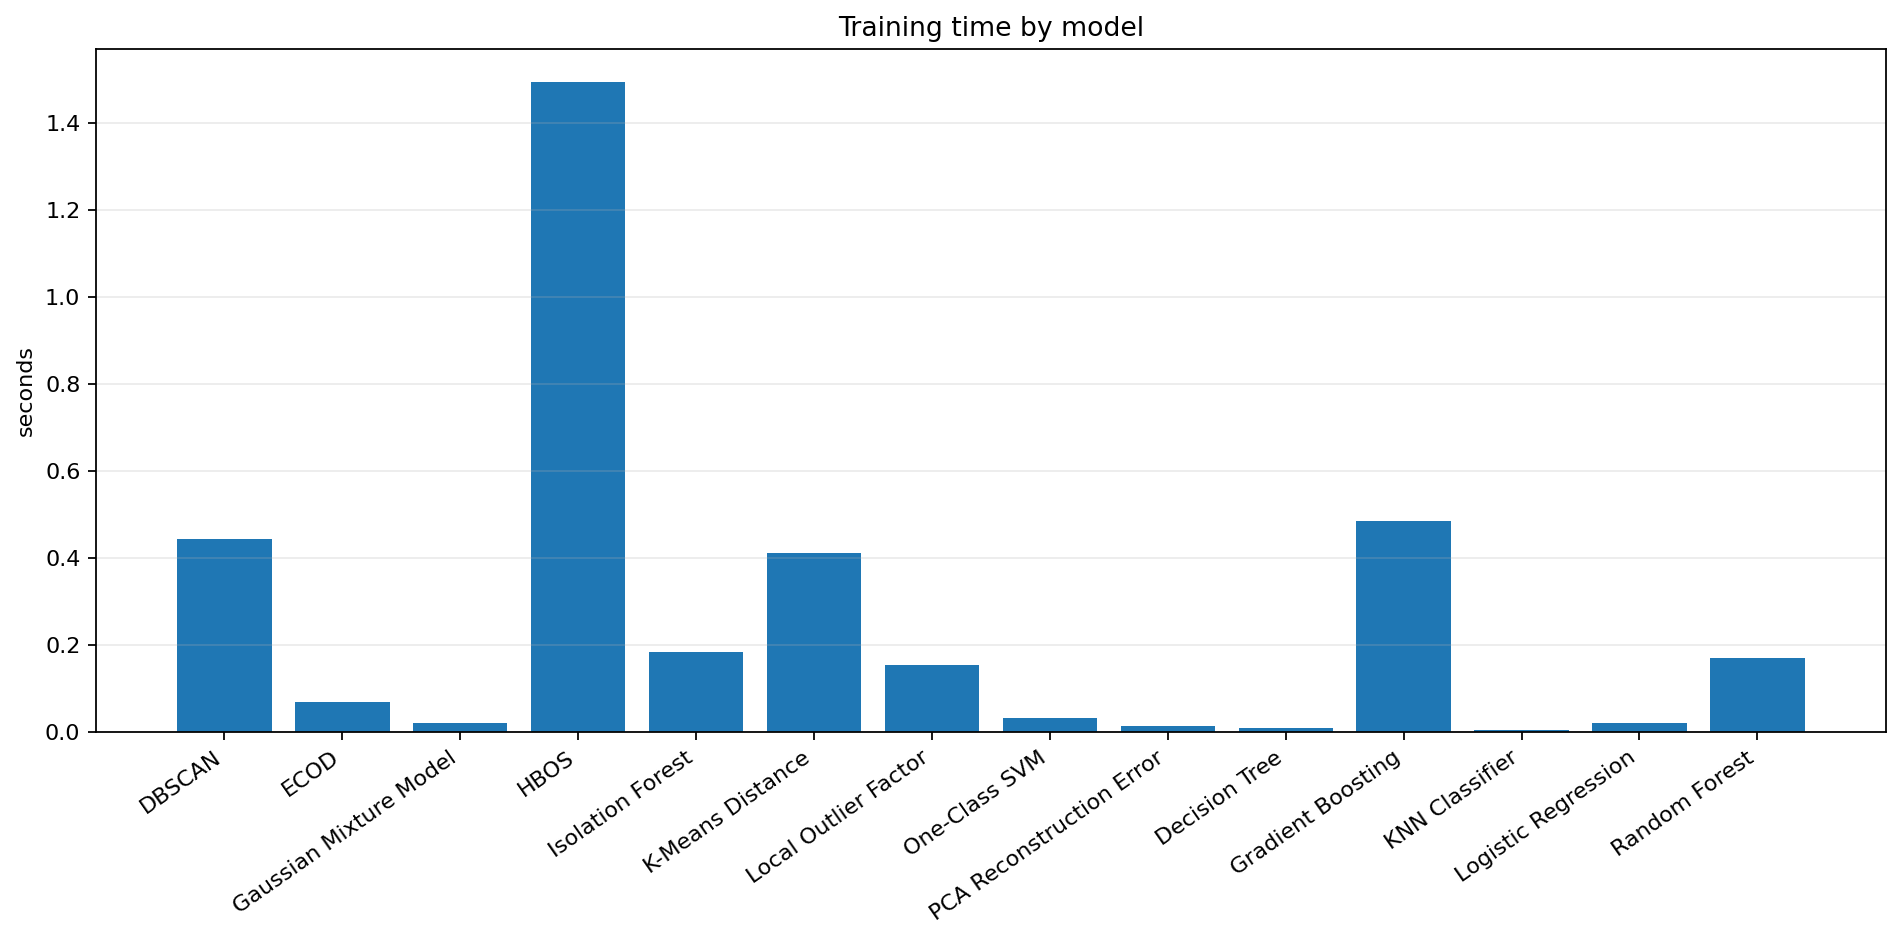
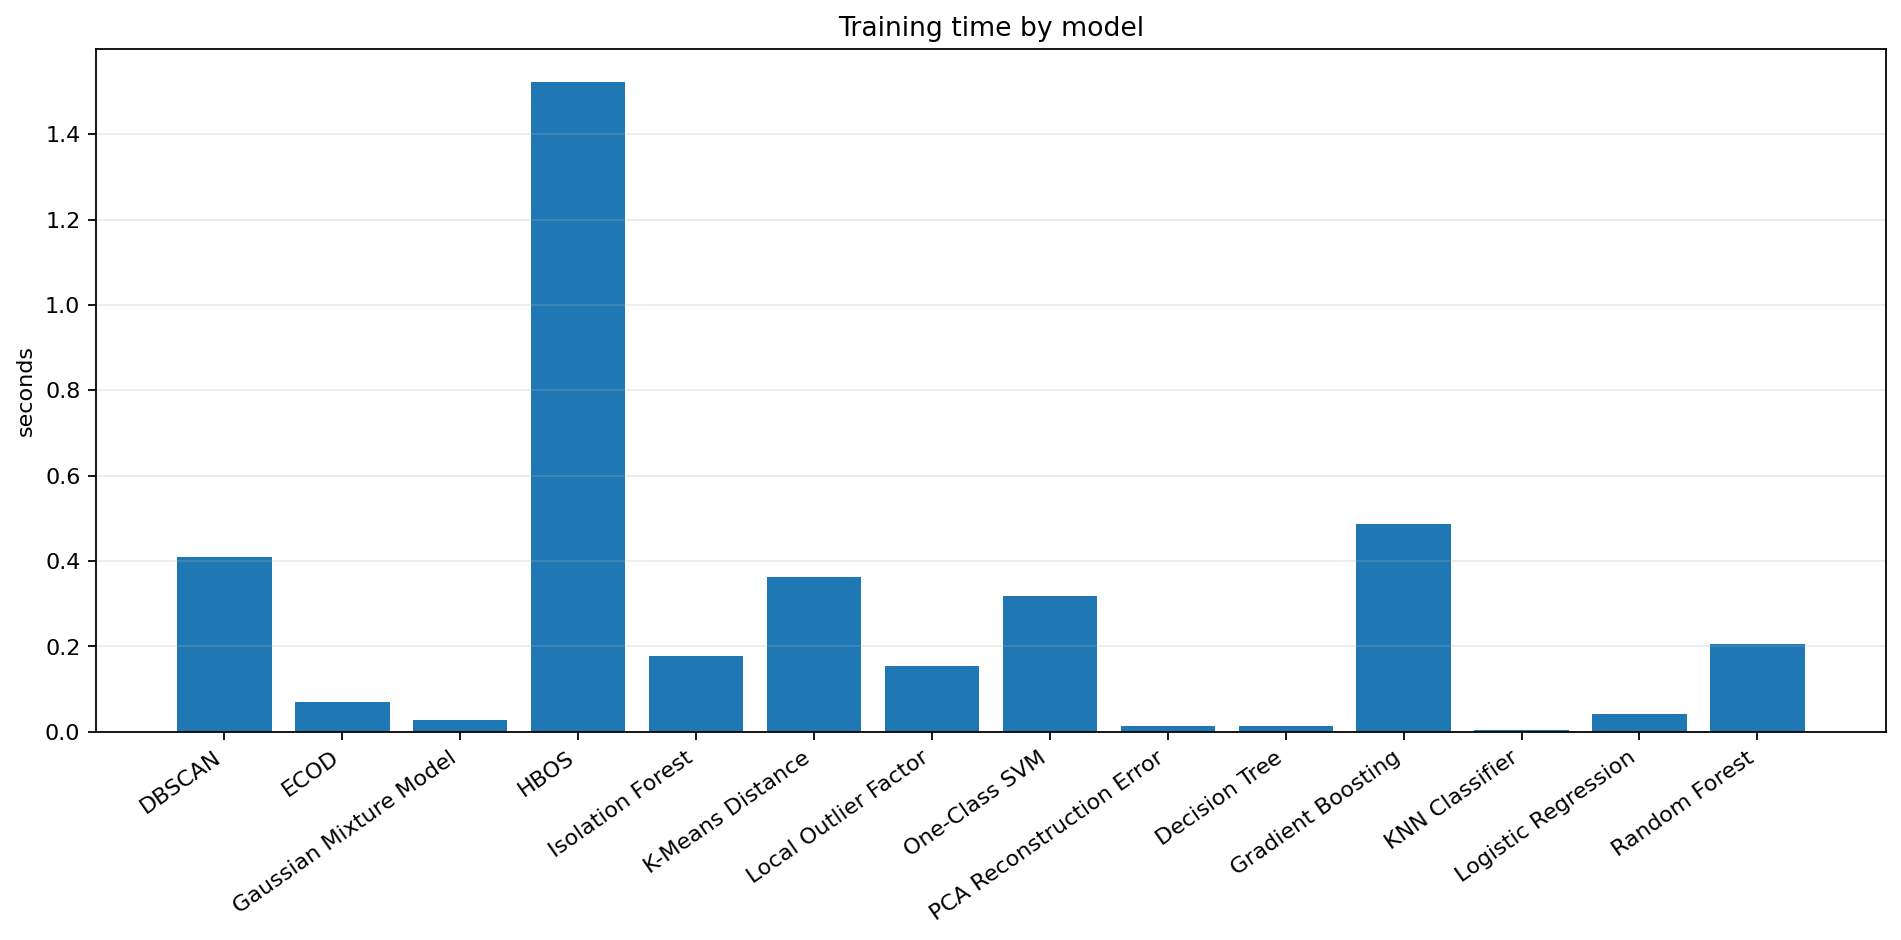
update dataset timestamp display and evaluation outputs

diff --git a/frontend/src/views/DatasetView.vue b/frontend/src/views/DatasetView.vue
@@ -117,6 +117,40 @@ const datasetName = computed(() => {
   return backendSummary.value?.datasetName ?? activeDataset.value?.name ?? 'Loading dataset...'
 })
 
+const formatBelgradeDateTime = (value: string | null | undefined) => {
+  if (!value) return 'N/A'
+
+  const normalizedValue = value.includes('T')
+    ? value
+    : value.replace(' ', 'T')
+
+  const utcValue = /Z$|[+-]\d{2}:\d{2}$/.test(normalizedValue)
+    ? normalizedValue
+    : `${normalizedValue}Z`
+
+  const date = new Date(utcValue)
+
+  if (Number.isNaN(date.getTime())) return 'N/A'
+
+  const parts = new Intl.DateTimeFormat('en-CA', {
+    timeZone: 'Europe/Belgrade',
+    year: 'numeric',
+    month: '2-digit',
+    day: '2-digit',
+    hour: '2-digit',
+    minute: '2-digit',
+    second: '2-digit',
+    hour12: false,
+    hourCycle: 'h23',
+  }).formatToParts(date)
+
+  const dateParts = Object.fromEntries(
+    parts.map((part) => [part.type, part.value])
+  )
+
+  return `${dateParts.year}-${dateParts.month}-${dateParts.day} ${dateParts.hour}:${dateParts.minute}:${dateParts.second}`
+}
+
 const datasetInfoText = computed(() => {
   if (isUploading.value) {
     return 'Status: Uploading dataset and running ML pipeline...'
@@ -131,7 +165,8 @@ const datasetInfoText = computed(() => {
   }
 
   const status = activeDataset.value?.status ?? 'active'
-  const uploadedAt = activeDataset.value?.uploadedAt ?? backendSummary.value?.lastUpdated ?? 'active'
+  const rawUploadedAt = activeDataset.value?.uploadedAt ?? backendSummary.value?.lastUpdated
+  const uploadedAt = rawUploadedAt ? formatBelgradeDateTime(rawUploadedAt) : 'active'
 
   return `Status: ${status} · ${uploadedAt}`
 })
@@ -167,7 +202,7 @@ const datasetTableRows = computed(() => {
     return datasets.value.map((dataset) => ({
       id: dataset.id,
       name: cleanDatasetName(dataset.originalFilename || dataset.name),
-      uploaded: dataset.uploadedAt,
+      uploaded: formatBelgradeDateTime(dataset.uploadedAt),
       size: `${dataset.rowCount} rows`,
       status: dataset.isActive ? 'Active' : dataset.status,
     }))
@@ -177,7 +212,9 @@ const datasetTableRows = computed(() => {
     {
       id: 0,
       name: datasetName.value,
-      uploaded: backendSummary.value?.lastUpdated || 'Loaded from backend',
+      uploaded: backendSummary.value?.lastUpdated
+        ? formatBelgradeDateTime(backendSummary.value.lastUpdated)
+        : 'Loaded from backend',
       size: `${Math.max(Number(dataPointsText.value), 1)} rows`,
       status: 'Active',
     },

diff --git a/ml/outputs/reports/model_evaluation_report.md b/ml/outputs/reports/model_evaluation_report.md
@@ -1,17 +1,17 @@
 # Model Evaluation Report
 
-Generated at: **2026-07-10 12:21:27**
+Generated at: **2026-07-10 14:54:19**
 
 This report is produced by the project script after the model-evaluation step. It summarizes the dataset, used features, trained models, calculated metrics and generated plots.
 
 ## 1. Dataset Summary
 
-- Dataset ID: **40**
+- Dataset ID: **44**
 - Dataset name: **mock_radiation_measurements**
 - Original file: **mock_radiation_measurements.csv**
 - Source type: **csv**
 - Current status: **evaluated**
-- Uploaded at: **2026-07-05 16:09:08.776769**
+- Uploaded at: **2026-07-10 12:50:47.761566**
 - Time range: **2026-01-01 00:00:00 → 2026-01-07 22:39:00**
 - Number of sensors: **1**
 - Number of locations: **1**
@@ -102,20 +102,20 @@ The table below contains the stored metrics for all evaluated models. For labele
 
 | model_name | evaluation_mode | accuracy | precision_score | recall_score | f1_score | roc_auc | pr_auc | fpr | fnr | tp | tn | fp | fn | true_anomalies | total_records | total_anomalies | anomaly_rate | score_mean | score_std | score_variance | training_time_seconds | prediction_time_seconds | best_result_for |
 | --- | --- | --- | --- | --- | --- | --- | --- | --- | --- | --- | --- | --- | --- | --- | --- | --- | --- | --- | --- | --- | --- | --- | --- |
-| DBSCAN | labeled | 98.1700 | 0.4359 | 0.3400 | 0.3820 | 0.9898 | 0.6307 | 0.0075 | 0.6600 | 17 | 2928 | 22 | 33 | 50 | 3000 | 39 | 1.300 | 2.4077 | 1.6676 | 2.7807 | 0.4428 | 0.0003 | prediction_time_seconds |
-| ECOD | labeled | 98.2000 | 0.4667 | 0.5600 | 0.5091 | 0.9889 | 0.5453 | 0.0108 | 0.4400 | 28 | 2918 | 32 | 22 | 50 | 3000 | 60 | 2.000 | 0.2119 | 0.0947 | 0.0090 | 0.0678 | 0.0339 |  |
-| Gaussian Mixture Model | labeled | 98.1000 | 0.4286 | 0.4200 | 0.4242 | 0.9852 | 0.3966 | 0.0095 | 0.5800 | 21 | 2922 | 28 | 29 | 50 | 3000 | 49 | 1.633 | 0.0280 | 0.0494 | 0.0024 | 0.0203 | 0.0009 |  |
-| HBOS | labeled | 95.5700 | 0.2707 | 0.9800 | 0.4242 | 0.9928 | 0.7850 | 0.0447 | 0.0200 | 49 | 2818 | 132 | 1 | 50 | 3000 | 181 | 6.033 | 0.3545 | 0.1245 | 0.0155 | 1.4948 | 0.0048 |  |
-| Isolation Forest | labeled | 98.5700 | 0.5538 | 0.7200 | 0.6261 | 0.9915 | 0.6737 | 0.0098 | 0.2800 | 36 | 2921 | 29 | 14 | 50 | 3000 | 65 | 2.167 | -0.1415 | 0.0415 | 0.0017 | 0.1837 | 0.0978 | score_std, score_variance |
-| K-Means Distance | labeled | 98.9300 | 0.6875 | 0.6600 | 0.6735 | 0.9804 | 0.5303 | 0.0051 | 0.3400 | 33 | 2935 | 15 | 17 | 50 | 3000 | 48 | 1.600 | 1.8421 | 1.0528 | 1.1084 | 0.4099 | 0.0018 |  |
-| Local Outlier Factor | labeled | 93.0300 | 0.1045 | 0.4200 | 0.1673 | 0.4413 | 0.2197 | 0.0610 | 0.5800 | 21 | 2770 | 180 | 29 | 50 | 3000 | 201 | 6.700 | -0.3728 | 0.2909 | 0.0846 | 0.1523 | 0.4396 |  |
-| One-Class SVM | labeled | 93.5300 | 0.2049 | 1.0000 | 0.3401 | 0.9861 | 0.3914 | 0.0658 | 0.0000 | 50 | 2756 | 194 | 0 | 50 | 3000 | 244 | 8.133 | -0.8232 | 0.5820 | 0.3387 | 0.0312 | 0.0755 | recall_score, fnr |
-| PCA Reconstruction Error | labeled | 97.9700 | 0.4179 | 0.5600 | 0.4786 | 0.9700 | 0.4054 | 0.0132 | 0.4400 | 28 | 2911 | 39 | 22 | 50 | 3000 | 67 | 2.233 | 0.4097 | 0.6986 | 0.4880 | 0.0124 | 0.0019 |  |
-| Decision Tree | supervised | 99.9700 | 1.0000 | 0.9800 | 0.9899 | 0.9900 | 0.9803 | 0.0000 | 0.0200 | 49 | 2950 | 0 | 1 | 50 | 3000 | 49 | 1.633 | 0.0163 | 0.1268 | 0.0161 | 0.0090 | 0.0021 | precision_score, fpr |
-| Gradient Boosting | supervised | 100.0000 | 1.0000 | 1.0000 | 1.0000 | 1.0000 | 1.0000 | 0.0000 | 0.0000 | 50 | 2950 | 0 | 0 | 50 | 3000 | 50 | 1.667 | 0.0167 | 0.1236 | 0.0153 | 0.4846 | 0.0081 | accuracy, precision_score, recall_score, f1_score, roc_auc, pr_auc, fpr, fnr |
-| KNN Classifier | supervised | 99.9700 | 1.0000 | 0.9800 | 0.9899 | 1.0000 | 1.0000 | 0.0000 | 0.0200 | 49 | 2950 | 0 | 1 | 50 | 3000 | 49 | 1.633 | 0.0165 | 0.1266 | 0.0160 | 0.0034 | 0.3782 | precision_score, roc_auc, pr_auc, fpr, training_time_seconds |
-| Logistic Regression | supervised | 94.9700 | 0.2410 | 0.9400 | 0.3837 | 0.9743 | 0.2372 | 0.0502 | 0.0600 | 47 | 2802 | 148 | 3 | 50 | 3000 | 195 | 6.500 | 0.1863 | 0.2074 | 0.0430 | 0.0204 | 0.0005 |  |
-| Random Forest | supervised | 99.9700 | 1.0000 | 0.9800 | 0.9899 | 1.0000 | 1.0000 | 0.0000 | 0.0200 | 49 | 2950 | 0 | 1 | 50 | 3000 | 49 | 1.633 | 0.0185 | 0.1058 | 0.0112 | 0.1700 | 0.1071 | precision_score, roc_auc, pr_auc, fpr |
+| DBSCAN | labeled | 98.1700 | 0.4359 | 0.3400 | 0.3820 | 0.9898 | 0.6307 | 0.0075 | 0.6600 | 17 | 2928 | 22 | 33 | 50 | 3000 | 39 | 1.300 | 2.4077 | 1.6676 | 2.7807 | 0.4091 | 0.0003 | prediction_time_seconds |
+| ECOD | labeled | 82.3700 | 0.0864 | 1.0000 | 0.1590 | 0.9889 | 0.5453 | 0.1793 | 0.0000 | 50 | 2421 | 529 | 0 | 50 | 3000 | 579 | 19.300 | 0.2119 | 0.0947 | 0.0090 | 0.0685 | 0.0340 | recall_score, fnr |
+| Gaussian Mixture Model | labeled | 75.1000 | 0.0627 | 1.0000 | 0.1181 | 0.9852 | 0.3966 | 0.2532 | 0.0000 | 50 | 2203 | 747 | 0 | 50 | 3000 | 797 | 26.567 | 0.0280 | 0.0494 | 0.0024 | 0.0266 | 0.0010 | recall_score, fnr |
+| HBOS | labeled | 7.7300 | 0.0177 | 1.0000 | 0.0349 | 0.9928 | 0.7850 | 0.9383 | 0.0000 | 50 | 182 | 2768 | 0 | 50 | 3000 | 2818 | 93.933 | 0.3545 | 0.1245 | 0.0155 | 1.5232 | 0.0048 | recall_score, fnr |
+| Isolation Forest | labeled | 65.0700 | 0.0455 | 1.0000 | 0.0871 | 0.9915 | 0.6737 | 0.3553 | 0.0000 | 50 | 1902 | 1048 | 0 | 50 | 3000 | 1098 | 36.600 | 0.0015 | 0.0415 | 0.0017 | 0.1780 | 0.0978 | recall_score, fnr, score_std, score_variance |
+| K-Means Distance | labeled | 76.1700 | 0.0642 | 0.9800 | 0.1205 | 0.9804 | 0.5303 | 0.2420 | 0.0200 | 49 | 2236 | 714 | 1 | 50 | 3000 | 763 | 25.433 | 1.8421 | 1.0528 | 1.1084 | 0.3613 | 0.0011 |  |
+| Local Outlier Factor | labeled | 1.7000 | 0.0085 | 0.5000 | 0.0167 | 0.4413 | 0.2197 | 0.9912 | 0.5000 | 25 | 26 | 2924 | 25 | 50 | 3000 | 2949 | 98.300 | 0.3255 | 0.2909 | 0.0846 | 0.1543 | 0.4419 |  |
+| One-Class SVM | labeled | 82.6000 | 0.0874 | 1.0000 | 0.1608 | 0.9936 | 0.5966 | 0.1769 | 0.0000 | 50 | 2428 | 522 | 0 | 50 | 3000 | 572 | 19.067 | -17.1899 | 75.0010 | 5625.1516 | 0.3186 | 0.7693 | recall_score, fnr |
+| PCA Reconstruction Error | labeled | 78.7300 | 0.0714 | 0.9800 | 0.1332 | 0.9700 | 0.4054 | 0.2159 | 0.0200 | 49 | 2313 | 637 | 1 | 50 | 3000 | 686 | 22.867 | 0.4097 | 0.6986 | 0.4880 | 0.0122 | 0.0015 |  |
+| Decision Tree | supervised | 99.9700 | 1.0000 | 0.9800 | 0.9899 | 0.9900 | 0.9803 | 0.0000 | 0.0200 | 49 | 2950 | 0 | 1 | 50 | 3000 | 49 | 1.633 | 0.0163 | 0.1268 | 0.0161 | 0.0139 | 0.0023 | precision_score, fpr |
+| Gradient Boosting | supervised | 100.0000 | 1.0000 | 1.0000 | 1.0000 | 1.0000 | 1.0000 | 0.0000 | 0.0000 | 50 | 2950 | 0 | 0 | 50 | 3000 | 50 | 1.667 | 0.0167 | 0.1236 | 0.0153 | 0.4860 | 0.0073 | accuracy, precision_score, recall_score, f1_score, roc_auc, pr_auc, fpr, fnr |
+| KNN Classifier | supervised | 99.9700 | 1.0000 | 0.9800 | 0.9899 | 1.0000 | 1.0000 | 0.0000 | 0.0200 | 49 | 2950 | 0 | 1 | 50 | 3000 | 49 | 1.633 | 0.0165 | 0.1266 | 0.0160 | 0.0033 | 0.3787 | precision_score, roc_auc, pr_auc, fpr, training_time_seconds |
+| Logistic Regression | supervised | 94.9700 | 0.2410 | 0.9400 | 0.3837 | 0.9743 | 0.2372 | 0.0502 | 0.0600 | 47 | 2802 | 148 | 3 | 50 | 3000 | 195 | 6.500 | 0.1863 | 0.2074 | 0.0430 | 0.0409 | 0.0015 |  |
+| Random Forest | supervised | 99.9700 | 1.0000 | 0.9800 | 0.9899 | 1.0000 | 1.0000 | 0.0000 | 0.0200 | 49 | 2950 | 0 | 1 | 50 | 3000 | 49 | 1.633 | 0.0185 | 0.1058 | 0.0112 | 0.2066 | 0.1092 | precision_score, roc_auc, pr_auc, fpr |
 
 Full metrics CSV: `../tables/model_metrics_full.csv`
 
@@ -129,25 +129,25 @@ If more than one model has the same best value for a metric, all of them are lis
 | --- | --- | --- | --- |
 | accuracy | Gradient Boosting | 100.0000 | higher is better |
 | precision_score | Decision Tree, Gradient Boosting, KNN Classifier, Random Forest | 1.0000 | higher is better |
-| recall_score | One-Class SVM, Gradient Boosting | 1.0000 | higher is better |
+| recall_score | ECOD, Gaussian Mixture Model, HBOS, Isolation Forest, One-Class SVM, Gradient Boosting | 1.0000 | higher is better |
 | f1_score | Gradient Boosting | 1.0000 | higher is better |
 | roc_auc | Gradient Boosting, KNN Classifier, Random Forest | 1.0000 | higher is better |
 | pr_auc | Gradient Boosting, KNN Classifier, Random Forest | 1.0000 | higher is better |
 | fpr | Decision Tree, Gradient Boosting, KNN Classifier, Random Forest | 0.0000 | lower is better |
-| fnr | One-Class SVM, Gradient Boosting | 0.0000 | lower is better |
+| fnr | ECOD, Gaussian Mixture Model, HBOS, Isolation Forest, One-Class SVM, Gradient Boosting | 0.0000 | lower is better |
 | score_std | Isolation Forest | 0.0415 | lower is better |
 | score_variance | Isolation Forest | 0.0017 | lower is better |
-| training_time_seconds | KNN Classifier | 0.0034 | lower is better |
+| training_time_seconds | KNN Classifier | 0.0033 | lower is better |
 | prediction_time_seconds | DBSCAN | 0.0003 | lower is better |
 
 ## 10. Result Interpretation
 
 Accuracy is shown in the table, but I did not use it as the only criterion. The dataset is imbalanced, because normal measurements are much more common than anomalies. For that reason, precision, recall, F1-score, PR-AUC and the confusion matrix are more useful for comparing the models.
 
-Among the unsupervised models, K-Means Distance had the best balanced result on the labeled test split, with F1-score 0.673. In this run it made the best compromise between finding anomalies and avoiding too many false alarms.
-Isolation Forest also gave a stable result, with F1-score 0.626. This model is useful for the practical version of the application because it can be trained without manually prepared labels.
-HBOS was very sensitive to anomalies, with recall 0.980, but its precision was lower (0.271). This means that it detected many true anomalies, but it also produced more false alarms.
-One-Class SVM reached recall 1.000, while precision was 0.205. This can be useful when missing an anomaly is a bigger problem than having extra false alarms, but it is not ideal if false alarms need to be low.
+Among the unsupervised models, K-Means Distance had the best balanced result on the labeled test split, with F1-score 0.120. In this run it made the best compromise between finding anomalies and avoiding too many false alarms.
+Isolation Forest also gave a stable result, with F1-score 0.087. This model is useful for the practical version of the application because it can be trained without manually prepared labels.
+HBOS was very sensitive to anomalies, with recall 1.000, but its precision was lower (0.018). This means that it detected many true anomalies, but it also produced more false alarms.
+One-Class SVM reached recall 1.000, while precision was 0.087. This can be useful when missing an anomaly is a bigger problem than having extra false alarms, but it is not ideal if false alarms need to be low.
 
 ### Note on very high supervised results
 
